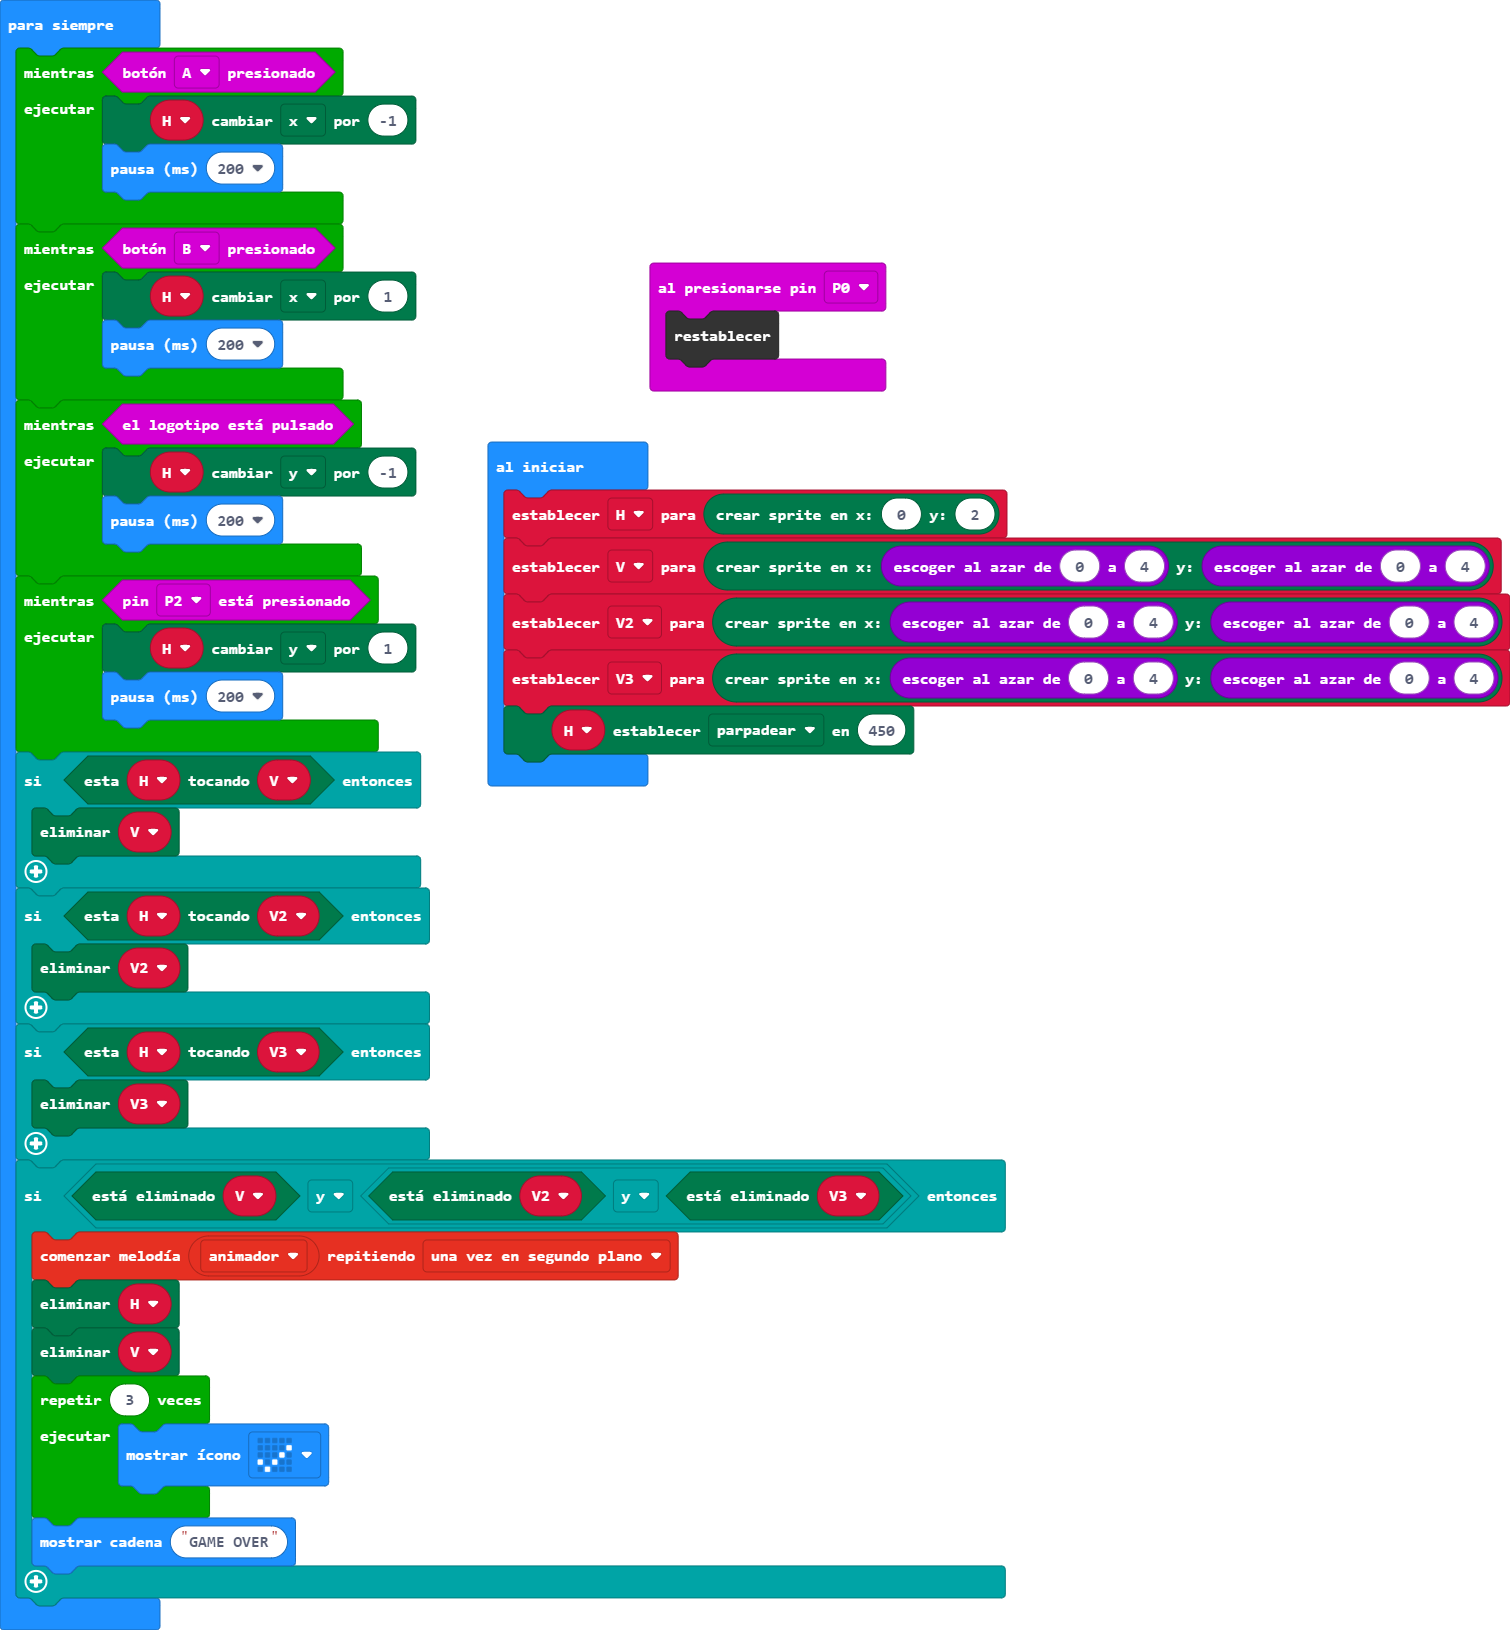
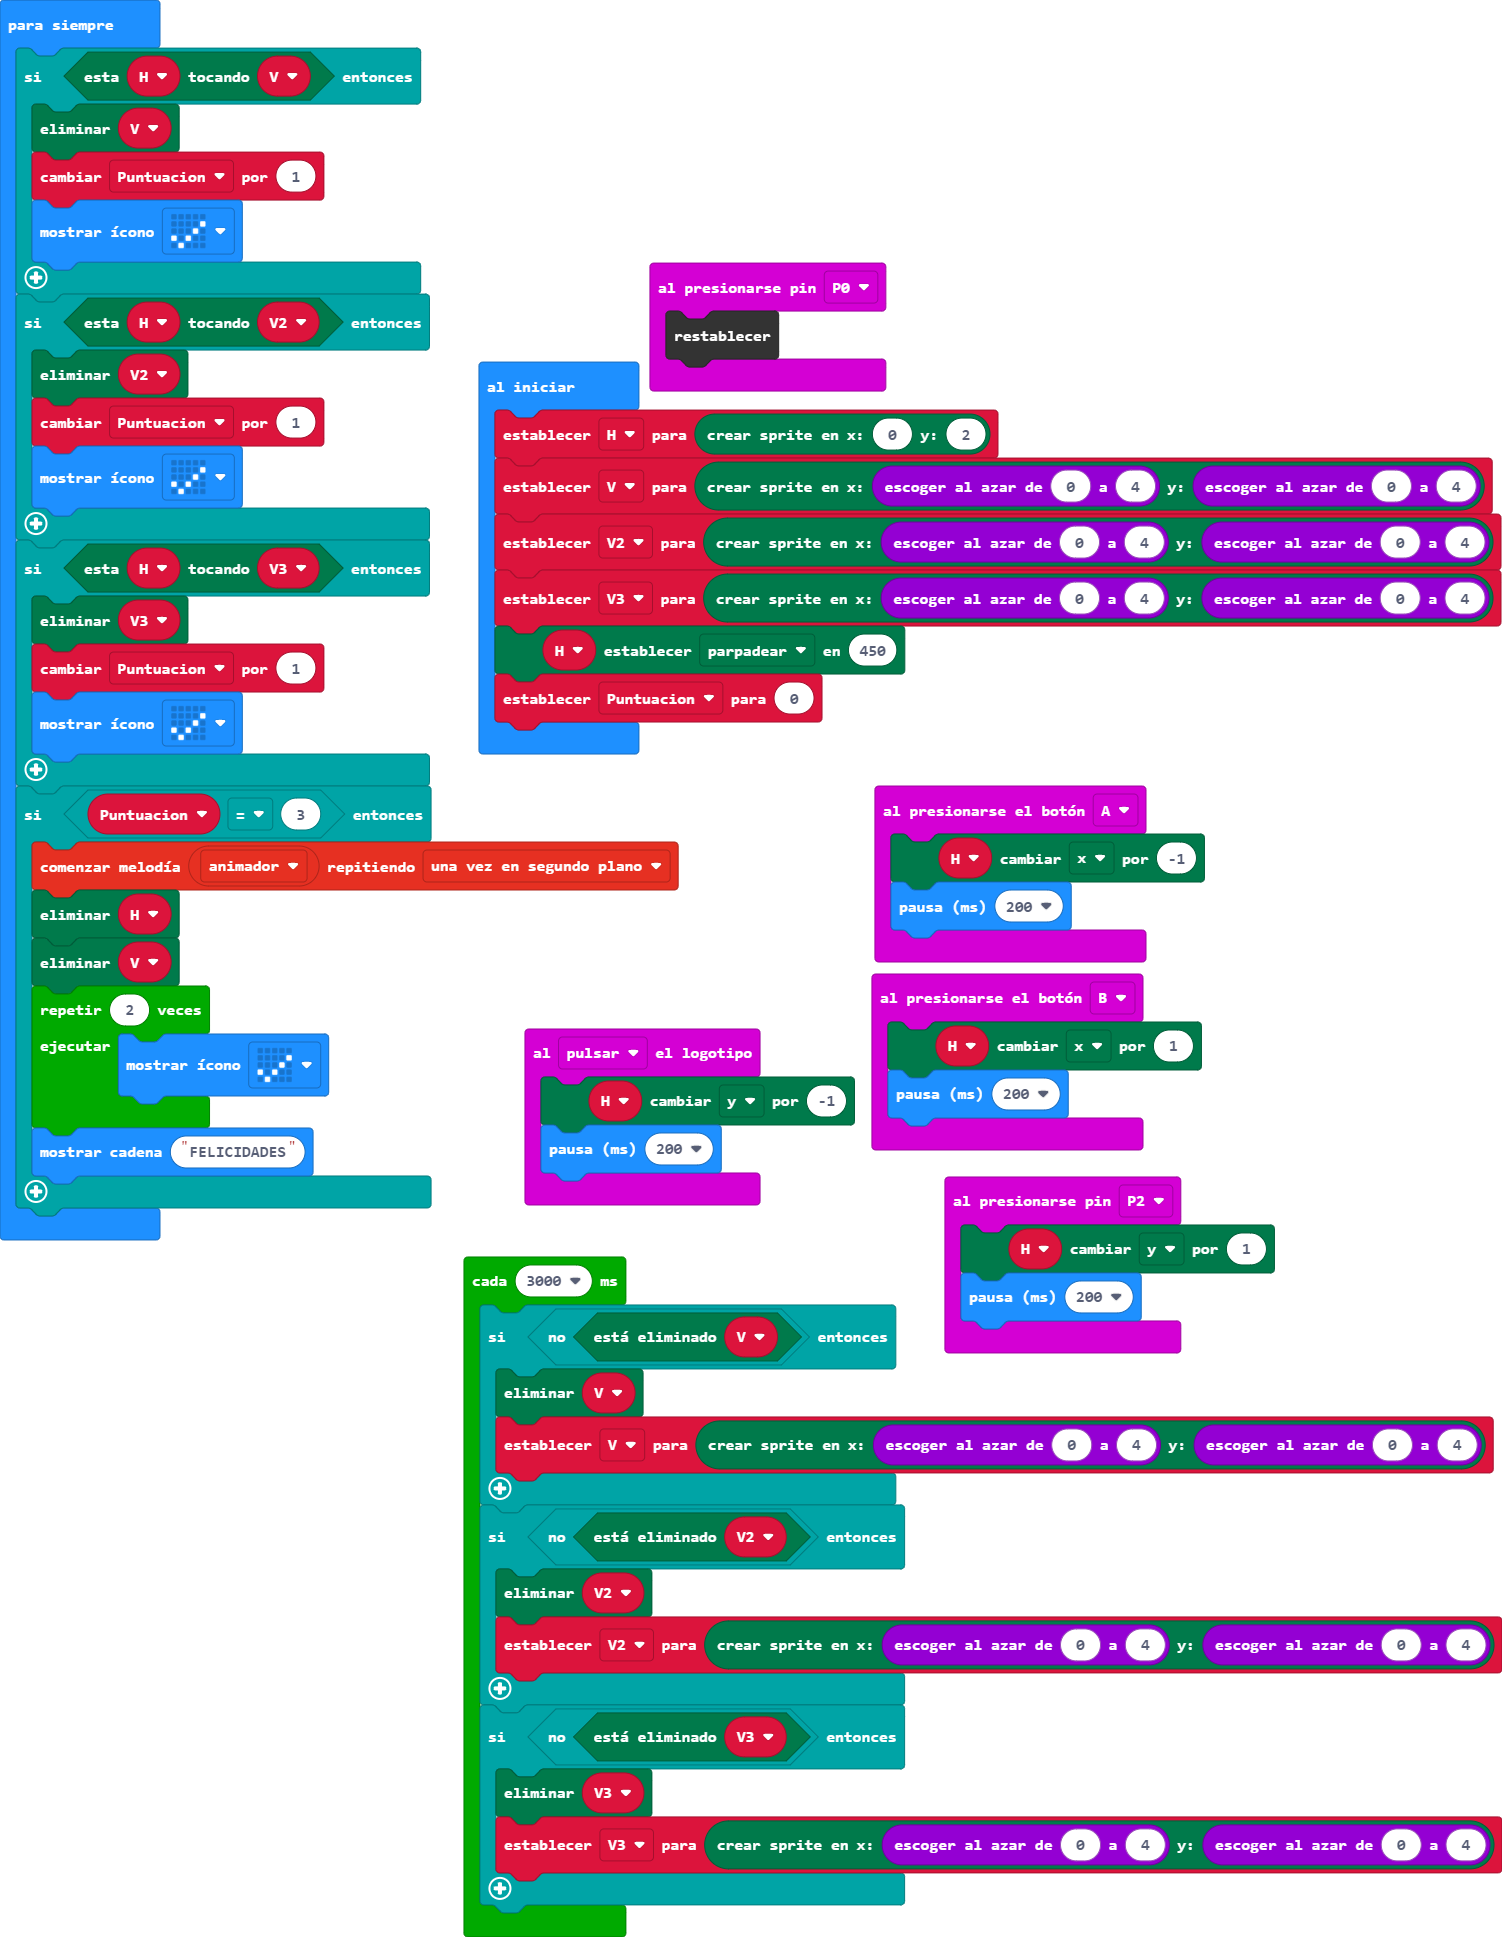
Actualizar main.blocks, main.ts

diff --git a/main.ts b/main.ts
@@ -1,44 +1,66 @@
 input.onPinPressed(TouchPin.P0, function () {
     control.reset()
 })
-let H = game.createSprite(0, 2)
+input.onLogoEvent(TouchButtonEvent.Pressed, function () {
+    H.change(LedSpriteProperty.Y, -1)
+    basic.pause(200)
+})
+input.onButtonPressed(Button.A, function () {
+    H.change(LedSpriteProperty.X, -1)
+    basic.pause(200)
+})
+input.onPinPressed(TouchPin.P2, function () {
+    H.change(LedSpriteProperty.Y, 1)
+    basic.pause(200)
+})
+input.onButtonPressed(Button.B, function () {
+    H.change(LedSpriteProperty.X, 1)
+    basic.pause(200)
+})
+let H: game.LedSprite = null
+H = game.createSprite(0, 2)
 let V = game.createSprite(randint(0, 4), randint(0, 4))
 let V2 = game.createSprite(randint(0, 4), randint(0, 4))
 let V3 = game.createSprite(randint(0, 4), randint(0, 4))
 H.set(LedSpriteProperty.Blink, 450)
+let Puntuacion = 0
 basic.forever(function () {
-    while (input.buttonIsPressed(Button.A)) {
-        H.change(LedSpriteProperty.X, -1)
-        basic.pause(200)
-    }
-    while (input.buttonIsPressed(Button.B)) {
-        H.change(LedSpriteProperty.X, 1)
-        basic.pause(200)
-    }
-    while (input.logoIsPressed()) {
-        H.change(LedSpriteProperty.Y, -1)
-        basic.pause(200)
-    }
-    while (input.pinIsPressed(TouchPin.P2)) {
-        H.change(LedSpriteProperty.Y, 1)
-        basic.pause(200)
-    }
     if (H.isTouching(V)) {
         V.delete()
+        Puntuacion += 1
+        basic.showIcon(IconNames.Yes)
     }
     if (H.isTouching(V2)) {
         V2.delete()
+        Puntuacion += 1
+        basic.showIcon(IconNames.Yes)
     }
     if (H.isTouching(V3)) {
         V3.delete()
+        Puntuacion += 1
+        basic.showIcon(IconNames.Yes)
     }
-    if (V.isDeleted() && (V2.isDeleted() && V3.isDeleted())) {
+    if (Puntuacion == 3) {
         music.startMelody(music.builtInMelody(Melodies.Entertainer), MelodyOptions.OnceInBackground)
         H.delete()
         V.delete()
-        for (let index = 0; index < 3; index++) {
+        for (let index = 0; index < 2; index++) {
             basic.showIcon(IconNames.Yes)
         }
-        basic.showString("GAME OVER")
+        basic.showString("FELICIDADES")
+    }
+})
+loops.everyInterval(3000, function () {
+    if (!(V.isDeleted())) {
+        V.delete()
+        V = game.createSprite(randint(0, 4), randint(0, 4))
+    }
+    if (!(V2.isDeleted())) {
+        V2.delete()
+        V2 = game.createSprite(randint(0, 4), randint(0, 4))
+    }
+    if (!(V3.isDeleted())) {
+        V3.delete()
+        V3 = game.createSprite(randint(0, 4), randint(0, 4))
     }
 })
